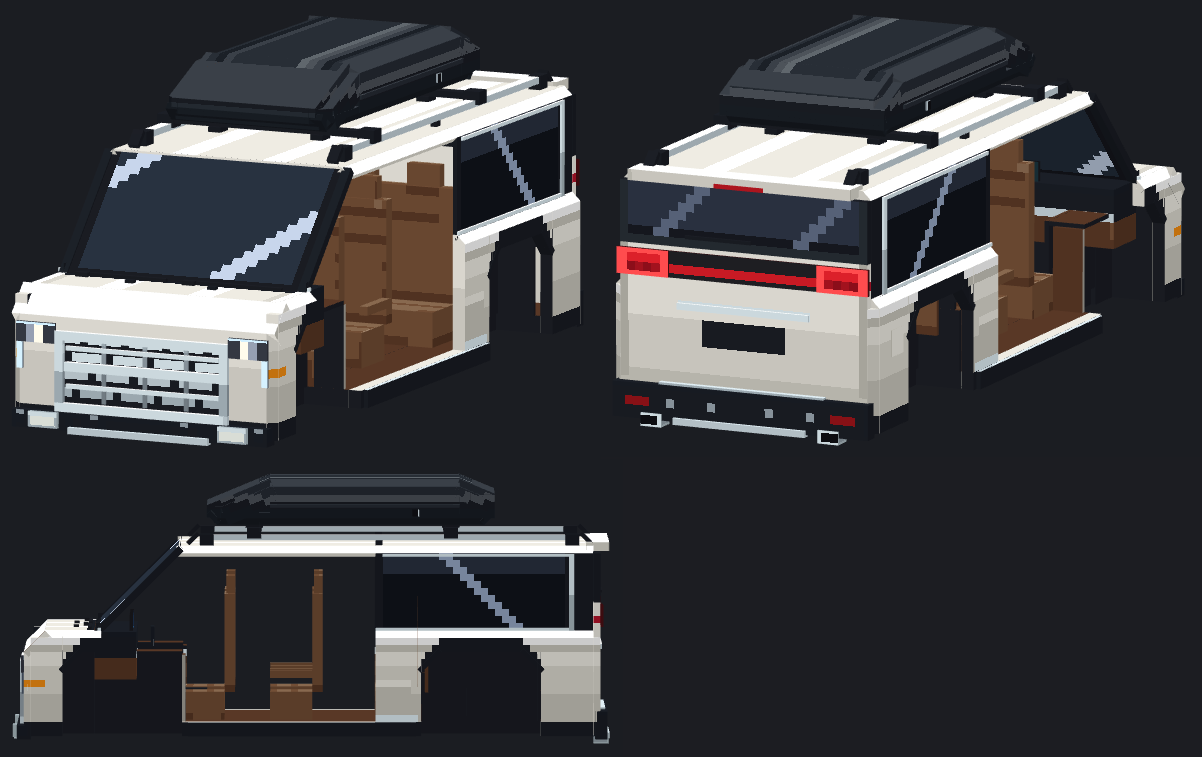
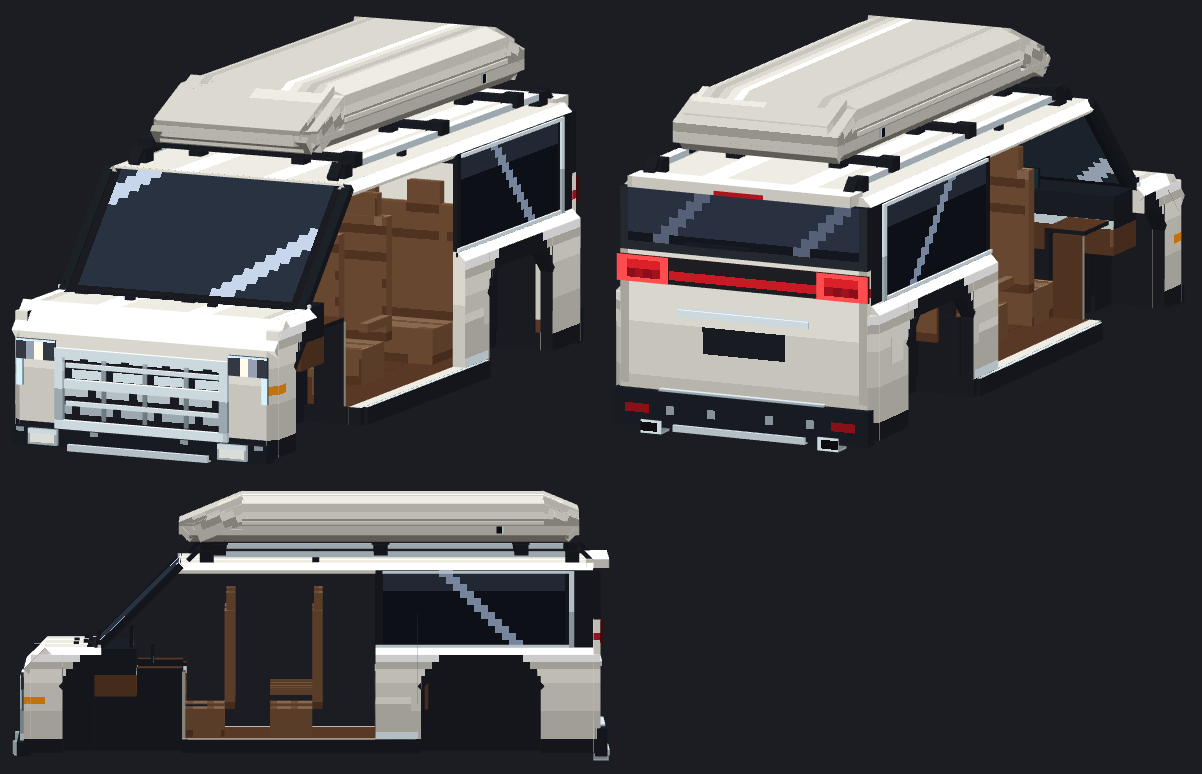
작업 중간 저장 (아직 jar 아님)
Claude-Session: https://claude.ai/code/session_01RZiBpXr9dauHCJtPMWBQ4s

diff --git a/tools/assetgen/models/vehicles_donation_sushi_carnival.py b/tools/assetgen/models/vehicles_donation_sushi_carnival.py
@@ -29,12 +29,13 @@ Its look:
     chrome strip along the sills.
   * back: a near-upright tailgate with a big dark window, wide tail lamps on the corners joined by a thin light bar, a
     roof spoiler, a black bumper with the plate above it.
-  * roof: two silver roof rails, two black cross bars, and clamped on them THE ROOF BOX: long and low (about two
-    thirds of the roof), a wedge nose tapering down at 22.5 degrees, a shorter tapered tail, a gently domed lid
+  * roof: two silver roof rails, three black cross bars, and clamped on them THE ROOF BOX: long and low (almost the
+    whole roof), a wedge nose tapering down at 22.5 degrees, a shorter tapered tail, a gently domed lid
     (22.5-degree shoulders), two faint ribs along it and a soft gloss line down the top, a thin shut line where the
-    lid meets the base, a small lock barrel on each side, four feet clamped round the bars.
+    lid meets the base, a small lock barrel on each side, six feet clamped round the bars.
   * paint: the body colour (colour: pearl white), the cabin (trim: warm tan leather), the roof box (box: gloss
-    graphite black "sc_box", or matte grey "sc_box_grey"). All are arguments.
+    the body colour by default, like the photos; or gloss graphite black "sc_box", or matte grey "sc_box_grey"). All
+    are arguments.
   * inside: 7 seats: two front seats, two captain chairs in the middle row, a three-seat bench at the back; a dash
     with a wide screen, a steering wheel.
 
@@ -129,12 +130,13 @@ GATE_Y = 22                      # the tailgate's window from here up   # the ta
 RAIL_Y = ROOF + 1.5            # the rails' top
 BAR_Y = RAIL_Y + 0.75          # the cross bars' top
 BX = 10                        # the box's half width
-BOX_Y0 = BAR_Y + 0.5           # its bottom (it stands on four feet on the bars)
+BOX_Y0 = BAR_Y + 0.5           # its bottom (it stands on six feet on the bars)
 BOX_Y1 = BOX_Y0 + 6.5            # its crown
 CROWN = 7.5                    # the crown's half width (22.5-degree shoulders from here out to BX)
 BOX_YS = BOX_Y1 - (BX - CROWN) * T     # the sides' top (where the shoulders end)
 SHUT = BOX_Y0 + 2.5            # the shut line between the base and the lid
-BOX_Z0, BOX_ZC0, BOX_ZC1, BOX_Z1 = -15, -6, 21, 26     # the nose's tip, the crown's ends, the tail
+BOX_Z0, BOX_ZC0, BOX_ZC1, BOX_Z1 = -19, -10, 33, 38    # the nose's tip, the crown's ends, the tail (about 93% of the roof)
+BARS = (-14, 9, 29)             # the three cross bars (z of their front edge)
 NOSE_DROP = (BOX_ZC0 - BOX_Z0) * T                       # how far the nose's top falls (22.5 degrees)
 TAIL_DROP = (BOX_Z1 - BOX_ZC1) * T
 CHEEK = 8.75                   # the nose's / tail's slope: full height inside this |x|, one shoulder lower outside
@@ -386,11 +388,13 @@ _KIT = {}
 PARTS = ("door_l", "door_r", "slide_l", "slide_r")
 
 
-def sushi_carnival(colour="sc_pearl", trim="sc_leather", box="sc_box", name="sushi_carnival"):
+def sushi_carnival(colour="sc_pearl", trim="sc_leather", box=None, name="sushi_carnival"):
     return carnival_kit(colour, trim, box, name).body
 
 
-def carnival_kit(colour="sc_pearl", trim="sc_leather", box="sc_box", name="sushi_carnival"):
+def carnival_kit(colour="sc_pearl", trim="sc_leather", box=None, name="sushi_carnival"):
+    """box: the roof box's ramp; None paints it in the body colour."""
+    box = box or colour
     key = (colour, trim, box, name, tuple(sorted(REMAP.items())))
     if key in _KIT:
         return _KIT[key]
@@ -876,18 +880,18 @@ def _side_details(m, ctx):
 
 
 def _roof_rack(m, ctx):
-    """Two silver roof rails (on a foot at each end), two black cross bars (the roof box is clamped on them)."""
+    """Two silver roof rails (on a foot at each end), three black cross bars (the roof box is clamped on them)."""
     rail = _chrome(0.95, 0.75, 0.5)
     for s in (-1, 1):
         x0, x1 = 11.5, 12.75
         m.box("rail", _lo(s, x0, x1, ROOF + 0.75, ZS1 + 5), _hi(s, x0, x1, RAIL_Y, RZ1 - 4), rail)
-        m.box("rail_post", _lo(s, x0 + 0.25, x1 - 0.25, ROOF, 9), _hi(s, x0 + 0.25, x1 - 0.25, ROOF + 0.75, 10), BLACK)
+        m.box("rail_post", _lo(s, x0 + 0.25, x1 - 0.25, ROOF, 0), _hi(s, x0 + 0.25, x1 - 0.25, ROOF + 0.75, 1), BLACK)
         # the black end caps, their ends bevelled at 45 degrees
         for z0, z1 in ((ZS1 + 3, ZS1 + 5), (RZ1 - 4, RZ1 - 2)):
             m.box("rail_cap", _lo(s, x0 - 0.1, x1 + 0.1, ROOF, z0), _hi(s, x0 - 0.1, x1 + 0.1, RAIL_Y + 0.1, z1), BLACK)
         plank(m, "rail_cap_nose", "x", (ZS1 + 1.5, ROOF), (ZS1 + 3, RAIL_Y), _x(s, x0, x1), 0.6, BLACK, below=False)
         plank(m, "rail_cap_tail", "x", (RZ1 - 2, RAIL_Y), (RZ1 - 0.5, ROOF), _x(s, x0, x1), 0.6, BLACK, below=False)
-    for zb in (-9, 19):
+    for zb in BARS:
         m.box("cross_bar", (-13, RAIL_Y, zb), (13, BAR_Y, zb + 1.5), BLACK)
         for s in (-1, 1):
             m.box("bar_clamp", _lo(s, 11.25, 13.25, RAIL_Y - 0.5, zb - 0.25), _hi(s, 11.25, 13.25, BAR_Y + 0.25, zb + 1.75), BLACK)
@@ -899,7 +903,14 @@ def _roof_rack(m, ctx):
 
 def _box_decal(B):
     """The roof box's paint (world space): a soft gloss line down the crown, two faint ribs, the domed shoulders lit,
-    the sides darker towards the bottom, the thin shut line round the base, the lid's lip just over it."""
+    the sides darker towards the bottom, the thin shut line round the base, the lid's lip just over it. A light paint
+    (the body's pearl white) is kept bright like the body; a dark one keeps its depth."""
+    spec = MATERIALS.get(REMAP.get(B, B))
+    k = 0.3 if spec and spec[2] > 0.6 else 0.0                          # lift for a light paint
+
+    def t(v):
+        return tone(B, v + k * (1 - v))
+
     def d(c):
         x, y, z = c.p
         ax = abs(x)
@@ -909,23 +920,22 @@ def _box_decal(B):
         if f == "up":
             if y > BOX_Y1 - 0.6 and ax < CROWN + 0.1:
                 if -4.5 <= x < -2.5:
-                    return tone(B, 0.98 if -4 <= x < -3 else 0.82)      # the gloss line
+                    return t(0.98 if -4 <= x < -3 else 0.82)            # the gloss line
                 if math.floor(ax) == 5:
-                    return tone(B, 0.62)                                # the ribs' lit side
+                    return t(0.62)                                      # the ribs' lit side
                 if math.floor(ax) == 6:
-                    return tone(B, 0.34)                                # their shadow
-                return tone(B, 0.5)
+                    return t(0.34)                                      # their shadow
+                return t(0.5)
             if y > BOX_YS - 0.3:
-                return tone(B, 0.68 if x < 0 else 0.56)                 # the shoulders and slopes, lit
-            return tone(B, 0.6)
-        fy = math.floor(y - BOX_Y0 + 1e-6)
+                return t(0.68 if x < 0 else 0.56)                       # the shoulders and slopes, lit
+            return t(0.6)
         if math.floor(y) == math.floor(SHUT):
-            return tone(B, 0.0)                                         # the shut line
+            return tone(B, 0.0 if k == 0 else 0.25)                     # the shut line
         if math.floor(y) == math.floor(SHUT) + 1:
-            return tone(B, 0.78)                                        # the lid's lip catching the light
+            return t(0.78)                                              # the lid's lip catching the light
         if f in ("east", "west"):
-            return tone(B, 0.32 + 0.24 * smooth((y - BOX_Y0) / 6))
-        return tone(B, 0.36 + 0.26 * smooth((y - BOX_Y0) / 6))
+            return t(0.32 + 0.24 * smooth((y - BOX_Y0) / 6))
+        return t(0.36 + 0.26 * smooth((y - BOX_Y0) / 6))
     return d
 
 
@@ -976,19 +986,19 @@ def _roof_box(m, ctx):
     # a lock barrel each side, just under the shut line near the back: a chrome ring round a dark key slot
     def lock(c):
         if c.face in ("east", "west"):
-            r = math.hypot(c.p[1] - (SHUT - 0.75), c.p[2] - 14.75)
+            r = math.hypot(c.p[1] - (SHUT - 0.75), c.p[2] - 26.75)
             return ("raw", (20, 20, 24, 255)) if r < 0.25 else tone("sc_chrome", 0.8)
         return tone("sc_chrome", 0.6)
     for s in (-1, 1):
-        m.box("box_lock", _lo(s, BX, BX + 0.25, SHUT - 1.25, 14.25), _hi(s, BX, BX + 0.25, SHUT - 0.25, 15.25),
+        m.box("box_lock", _lo(s, BX, BX + 0.25, SHUT - 1.25, 26.25), _hi(s, BX, BX + 0.25, SHUT - 0.25, 27.25),
               Paint("sc_chrome", 5, noise=0, rim=0.3, decal=lock))
     # the lid's lip along each side, just over the shut line
     for s in (-1, 1):
         m.box("box_lip", _lo(s, BX, BX + 0.25, SHUT, zc0), _hi(s, BX, BX + 0.25, SHUT + 0.5, zc1),
-              Paint(B, 3, noise=0, rim=0.3, decal=lambda c: tone(B, 0.85 if c.face == "up" else 0.55)))
+              Paint(B, 3, noise=0, rim=0.3, decal=lambda c: dec(c) if c.face == "down" else tone(B, 0.95 if c.face == "up" else 0.7)))
     # the feet: a block under the box on each bar, a clamp hooked round the bar's underside
     foot = Paint("sc_black", 1, noise=0, grad=0, rim=0.3, ao=0.3)
-    for zb in (-9, 19):
+    for zb in BARS:
         for s in (-1, 1):
             m.box("box_foot", _lo(s, 5, 7.5, BAR_Y, zb - 0.5), _hi(s, 5, 7.5, y0, zb + 2), foot)
             m.box("box_clamp", _lo(s, 5.5, 7, RAIL_Y - 0.6, zb - 0.25), _hi(s, 5.5, 7, RAIL_Y, zb + 1.75), foot)

diff --git a/tools/assetgen/vehicle_icons_donation_sushi_carnival.py b/tools/assetgen/vehicle_icons_donation_sushi_carnival.py
@@ -1,8 +1,8 @@
 """
 The 초밥 카니발's inventory icon (16x16, textures/sushi_carnival_icon.png): seen from its left side like the other cars
 (front to the left): a long, tall pearl-white minivan (dark glass, black pillars, a bright crease, a slim white lamp in
-front and a red one at the back, silver alloys) with the long streamlined black roof box on its rails: a tapered
-nose to the front, a gloss line along its top, the shut line, its feet on the bars.
+front and a red one at the back, silver alloys) with the long streamlined white roof box (in the body colour) running
+almost the whole roof: a tapered nose to the front, a gloss line along its top, the shut line, its feet on the bars.
 """
 
 from vehicle_icons import icon, _draw
@@ -13,10 +13,10 @@ import models.vehicles_donation_sushi_carnival  # noqa: F401  (registers the sc_
 def sushi_carnival():
     rows = ["................",
             "................",
-            "......xxxxxx....",
-            "...xxXXXXXXXxx..",
-            "..zddddddddddd..",
-            "...bblbbbbbbb...",
+            "....xxxxxxxxxx..",
+            "..xxXXXXXXXXXXx.",
+            ".zdddddddddddddd",
+            "..kbbbbbbbbbbbk.",
             "...sksssssksss..",
             "..pppppppppppppp",
             ".gqggkggggkgggkp",
@@ -27,9 +27,9 @@ def sushi_carnival():
             "bbkhHkbbbbbkhHkb",
             "..khhk.....khhk.",
             "...kk.......kk.."]
-    colours = {"x": ("sc_box", 3), "X": ("sc_box", 6), "z": ("sc_box", 2), "d": ("sc_box", 2), "l": ("sc_box", 0),
+    colours = {"x": ("sc_pearl", 5), "X": ("sc_pearl", 7), "z": ("sc_pearl", 3), "d": ("sc_pearl", 4),
                "s": ("sc_chrome", 5), "k": ("sc_black", 0),
                "p": ("sc_pearl", 5), "W": ("sc_pearl", 7), "g": ("sc_black", 1), "q": ("sc_chrome", 2),
-               "L": ("sc_led", 2), "T": ("sc_tail", 3), "G": ("sc_chrome", 6), "b": ("sc_box", 1),
+               "L": ("sc_led", 2), "T": ("sc_tail", 3), "G": ("sc_chrome", 6), "b": ("sc_black", 1),
                "h": ("sc_rim", 4), "H": ("sc_chrome", 7)}
     return _draw(rows, colours).render()
